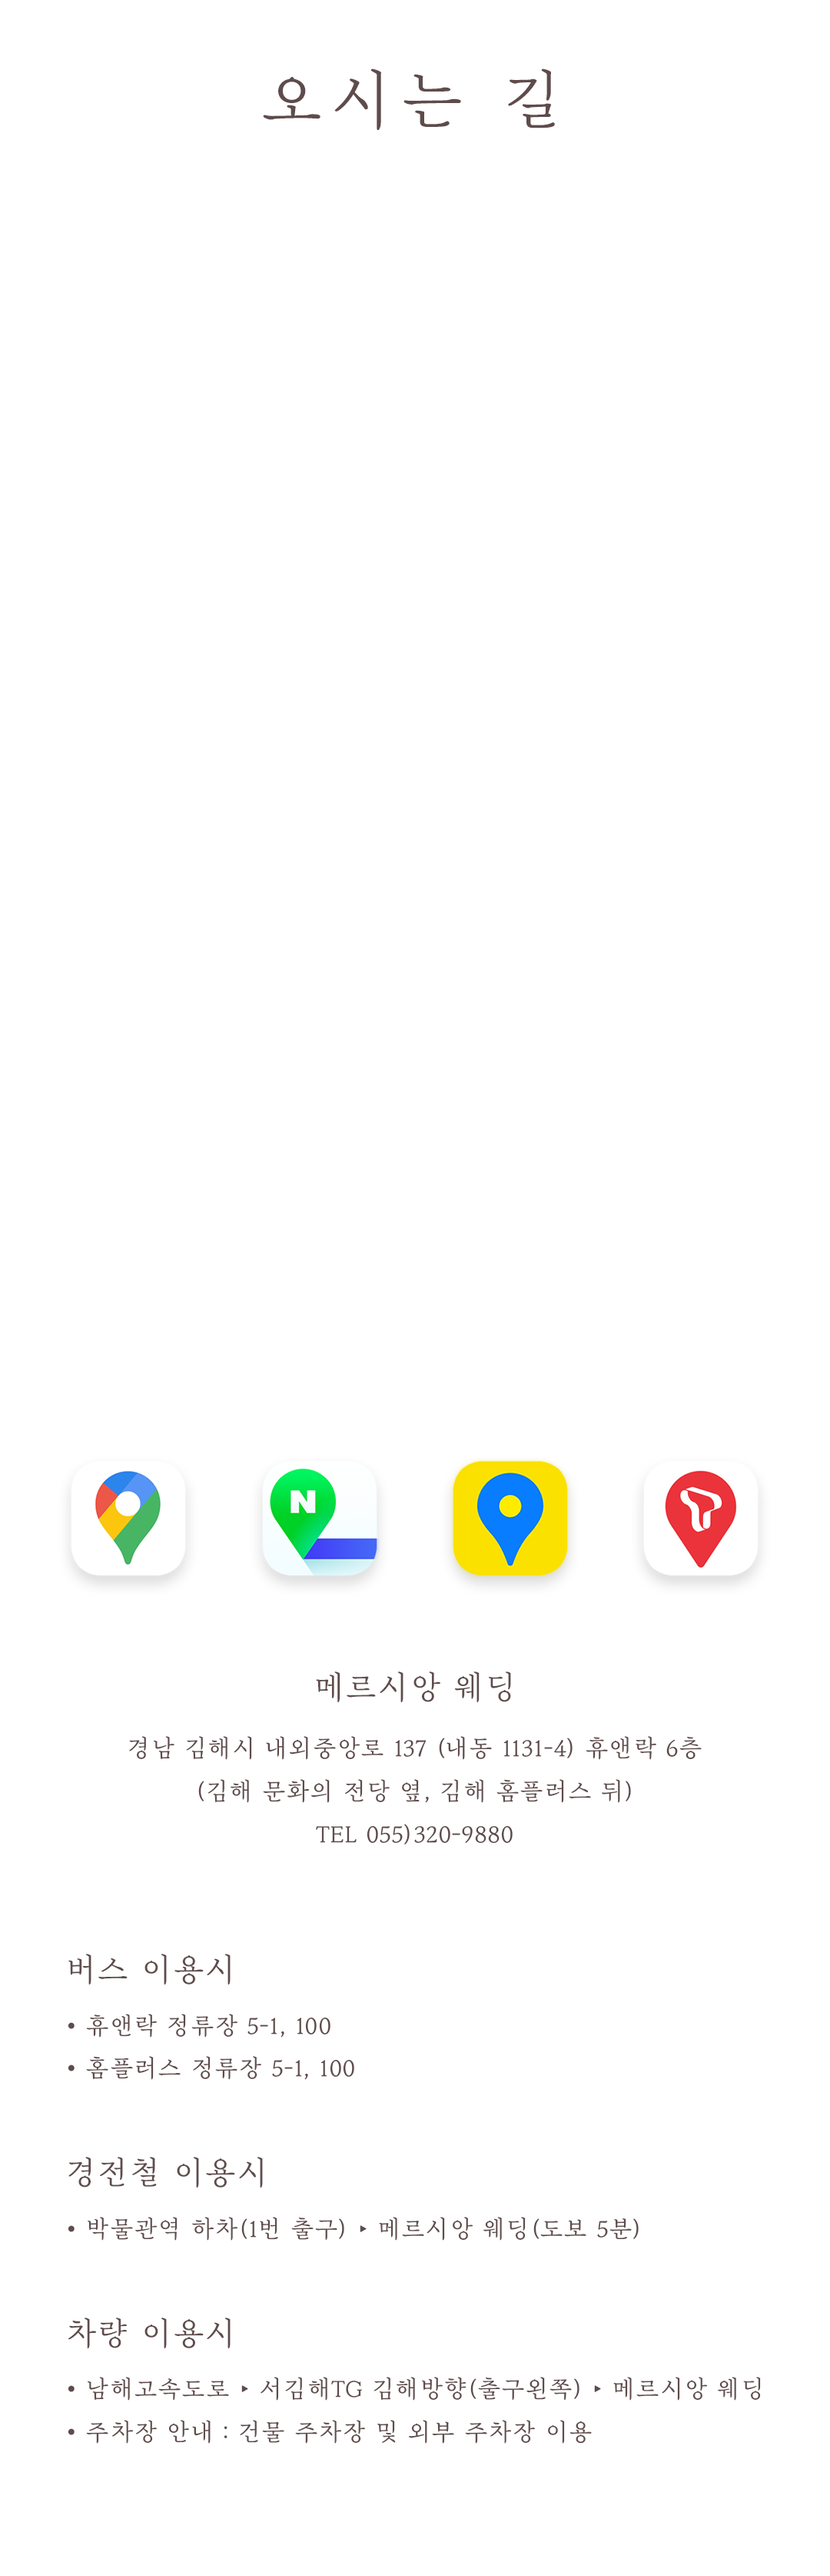
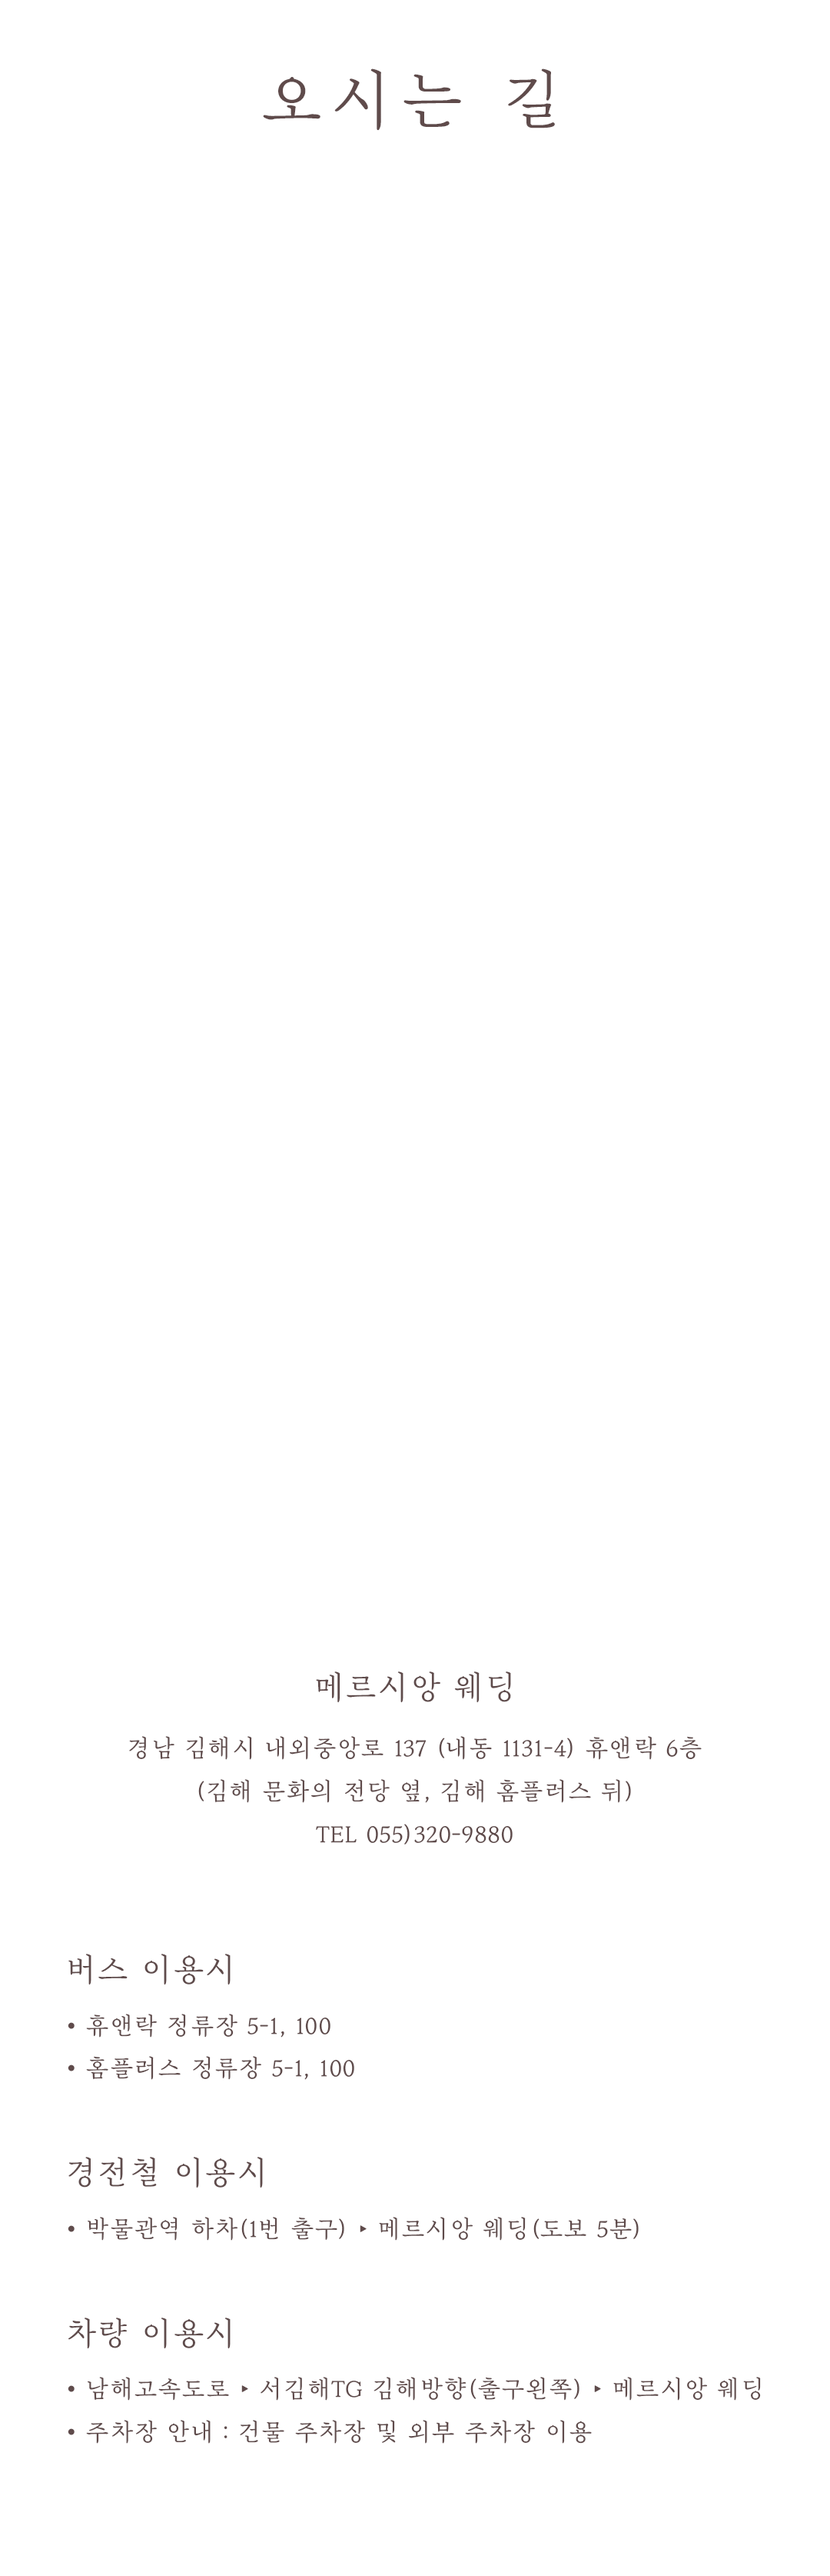
지도 링크 개발 tmap 링크 보류

diff --git a/index.html b/index.html
@@ -20,6 +20,7 @@
             <img id="starsA" src="img/page_01/07_Stars_A.png">
             <img id="starsB" src="img/page_01/08_Stars_B.png">
             <img id="bgA" src="img/page_02/01_BG.png">
+
             <img id="letterA" src="img/page_02/02_Letter_A.png">
             <img id="letterB" src="img/page_02/03_Letter_B.png">
             <img id="letterC" src="img/page_02/04_Letter_C.png">
@@ -29,12 +30,21 @@
         </div>
         <div class="calendar">
             <img id="calendar" src="img/page_04/calendar.png">
-            <h1 id="countdn"><div id="newcountdown"></div><br>후에 결혼합니다</h1>
+            <h1 id="countdn"><div id="newcountdown"></div><br>후에 결혼합니다.</h1>
         </div>
         <div class="map">
             <img id="mapcover" src="img/page_05/map_page.png">
             <img id="mapname" src="img/page_05/Map_name.png">
             <img id="map" src="img/page_05/Map.png">
+            <a id="google" href="https://goo.gl/maps/71YMJEkAUswksT5z8">
+                <img src="img/page_05/googlemaps.png">
+            <a id="naver" href="http://naver.me/xNdpQnIi">
+                    <img src="img/page_05/navermap.png">
+            <a id="kakao" href="https://place.map.kakao.com/23553867">
+                <img src="img/page_05/kakaomap.png">
+            <a id="tmap" href="https://place.map.kakao.com/23553867">
+                <img src="img/page_05/tmap.png">
+            </a>
         </div>
     </body>
 
@@ -56,8 +66,8 @@
             var value = window.scrollY;
             sky.style.top = value * 0.7 + 'px';
             cloud.style.top = value * 0.6 + 'px';
-            fieldA.style.top = value * 0.28 + 'px';
-            couple.style.top = value * 0.2 + 'px';
+            fieldA.style.top = value * 0.3 + 'px';
+            couple.style.top = value * 0.1 + 'px';
             marry.style.top = value * 0.5 + 'px';
             starsA.style.top = value * -0.5 + 'px';
             starsB.style.top = value * -1 + 'px';
@@ -66,9 +76,7 @@
             mapname.style.top = value * 0.48 + 'px';
             map.style.top = value * 0.5 + 'px';
         })
-    </script>
-
-    <script type="text/javascript">
+        
         CountDownTimer('06/19/2021 12:00 AM', 'newcountdown');
         
         function CountDownTimer(dt, id){
@@ -86,7 +94,7 @@
                 if (distance < 0) {
 
                     clearInterval(timer);
-                    document.getElementById(id).innerHTML = '축하해주셔서 감사합니다!';
+                    document.getElementById(id).innerHTML = '축하해주셔서 감사합니다.';
 
                     return;
                 }

diff --git a/style.css b/style.css
@@ -20,7 +20,7 @@ body{
 .start{
     position: relative;
     width: 1080px;
-    height: 3900px;
+    height: 4100px;
 }
 #sky{
     position: relative;
@@ -75,21 +75,22 @@ body{
     left: 0px;
     z-index: 8;
 }
+
 #letterA{
     position: absolute;
-    margin-top: 2600px;
+    margin-top: 2800px;
     left: 0px;
     z-index: 9;
 }
 #letterB{
     position: absolute;
-    margin-top: 2400px;
+    margin-top: 2800px;
     left: 42px;
     z-index: 10;
 }
 #letterC{
     position: absolute;
-    margin-top: 3023px;
+    margin-top: 3223px;
     left: 0px;
     z-index: 11;
 }
@@ -133,4 +134,28 @@ body{
     margin-top: -3000px;
     left: 0px;
     z-index: 1;
+}
+#google{
+    position: absolute;
+    top: 1895px;
+    left: 78px;
+    z-index: 4;
+}
+#naver{
+    position: absolute;
+    top: 1895px;
+    left: 327px;
+    z-index: 4;
+}
+#kakao{
+    position: absolute;
+    top: 1895px;
+    left: 575px;
+    z-index: 4;
+}
+#tmap{
+    position: absolute;
+    top: 823px;
+    left: 575px;
+    z-index: 4;
 }
